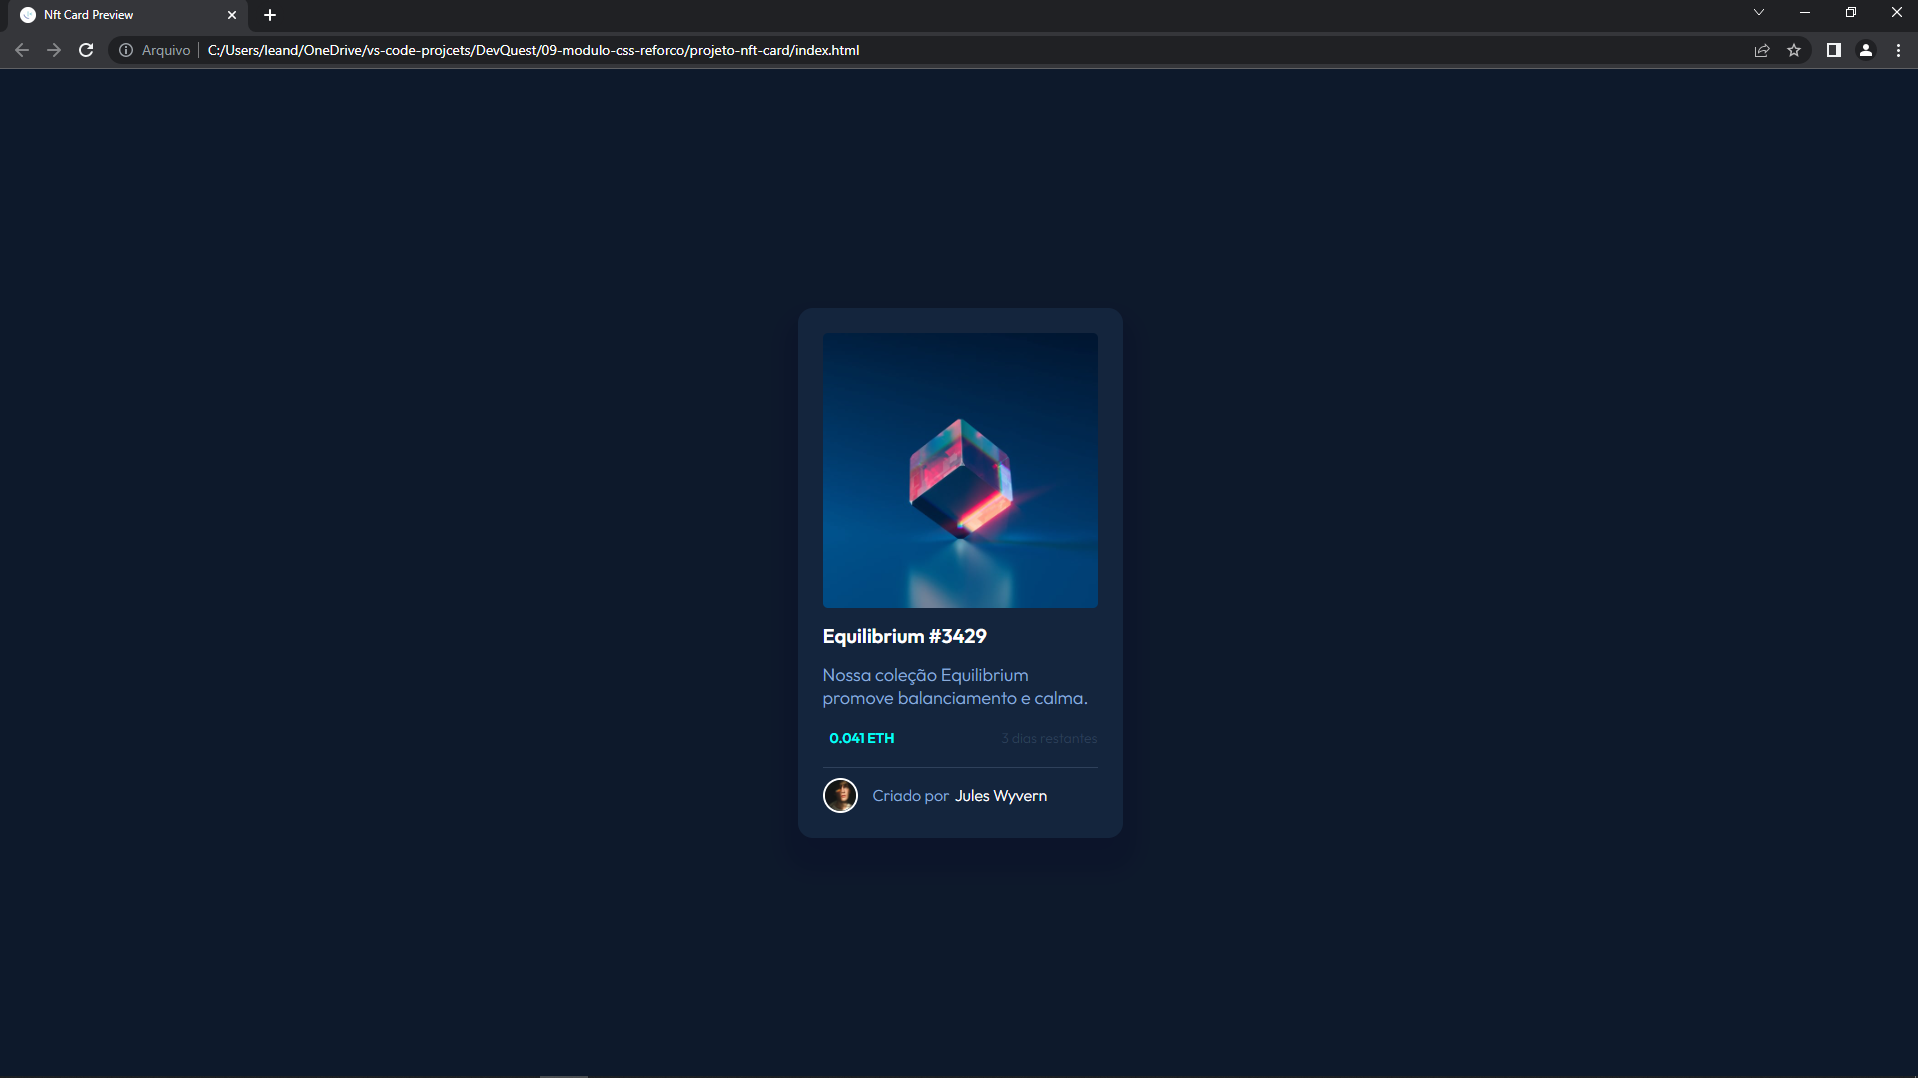
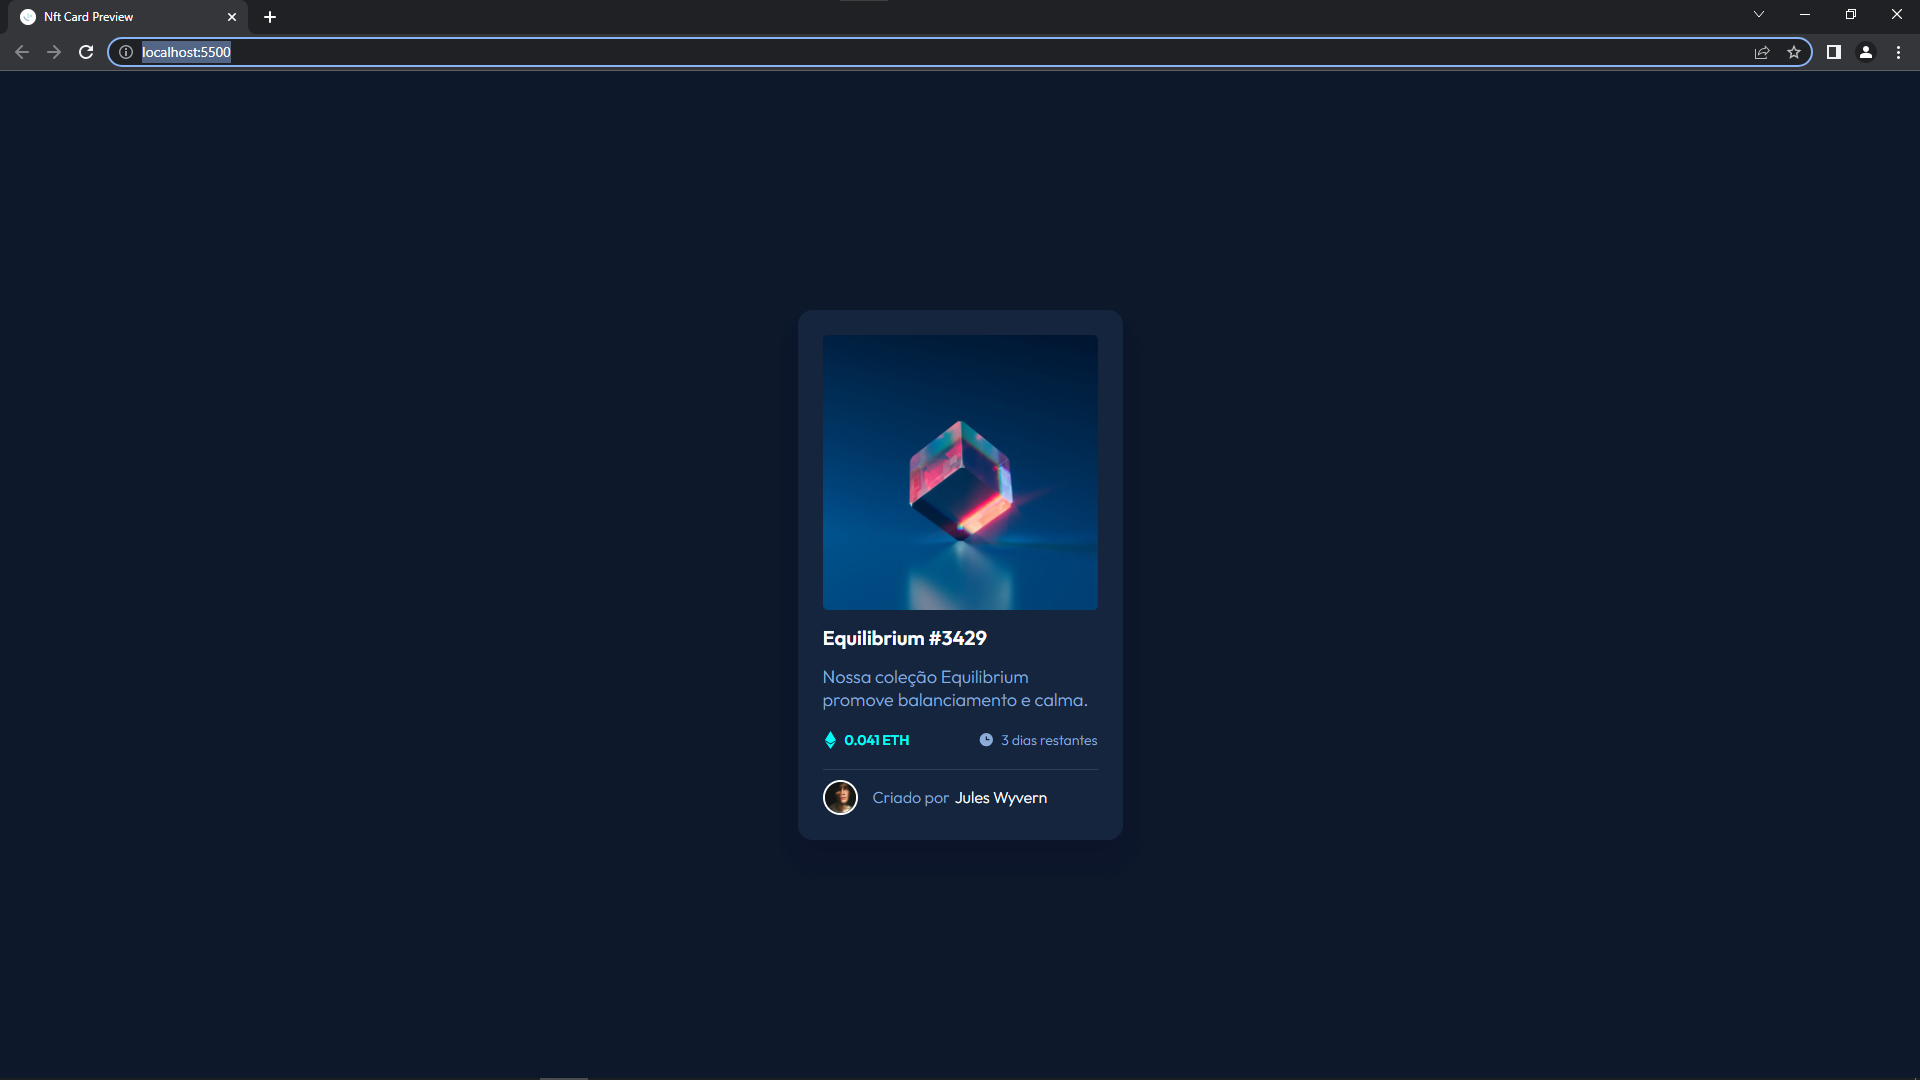
svg camino errado

Changed region(s): [[0.0, 0.0, 0.9844, 0.0918], [0.4307, 0.5816, 0.5845, 0.7653], [0.4922, 0.398, 0.5229, 0.4592]]

diff --git a/src/css/style.css b/src/css/style.css
@@ -44,7 +44,9 @@ main{
 
 .nft-card .principal .image-link::after{
     content: '';
-    background: url(/src/images/icon-view.svg) no-repeat center;
+    background-image: url(../images/icon-view.svg);
+    background-repeat: no-repeat;
+    background-position: center;
     width: 100%;
     height: 100%;
     position: absolute;
@@ -95,7 +97,7 @@ main{
 
 .nft-card .infos .preco::before{
     content: '';
-    background: url(/src/images/icon-ethereum.svg) no-repeat center;
+    background: url(../images/icon-ethereum.svg) no-repeat center;
     height: 18px;
     width: 15px;
     margin-right: 7px;
@@ -103,7 +105,7 @@ main{
 
 .nft-card .infos .tempo::before{
     content: '';
-    background: url(/src/images/icon-clock.svg) no-repeat center;
+    background: url(../images/icon-clock.svg) no-repeat center;
     height: 18px;
     width: 15px;
     margin-right: 7px;
